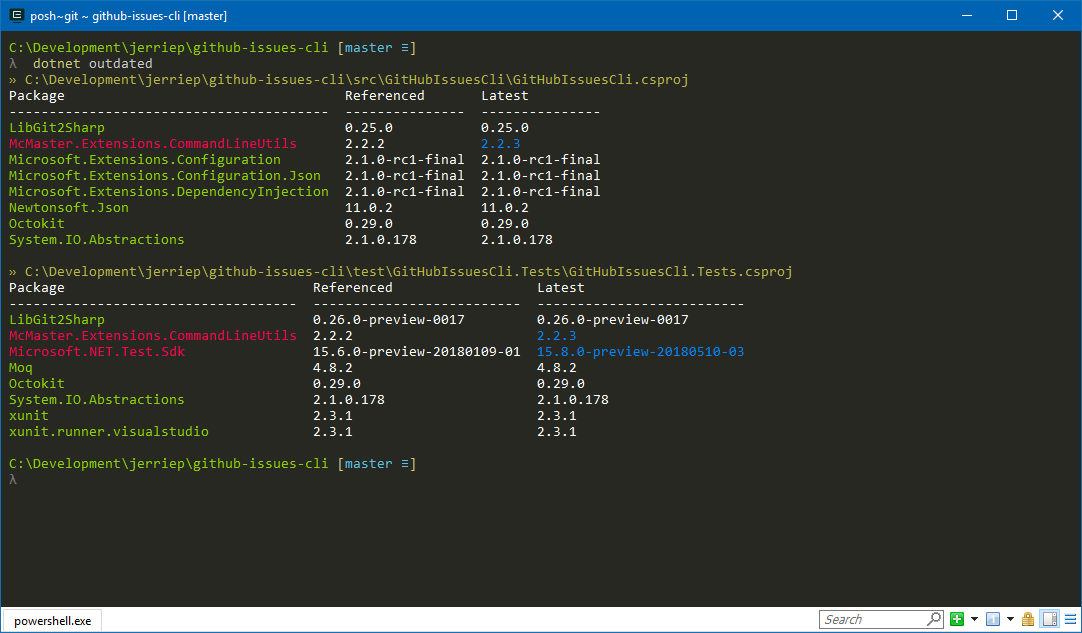
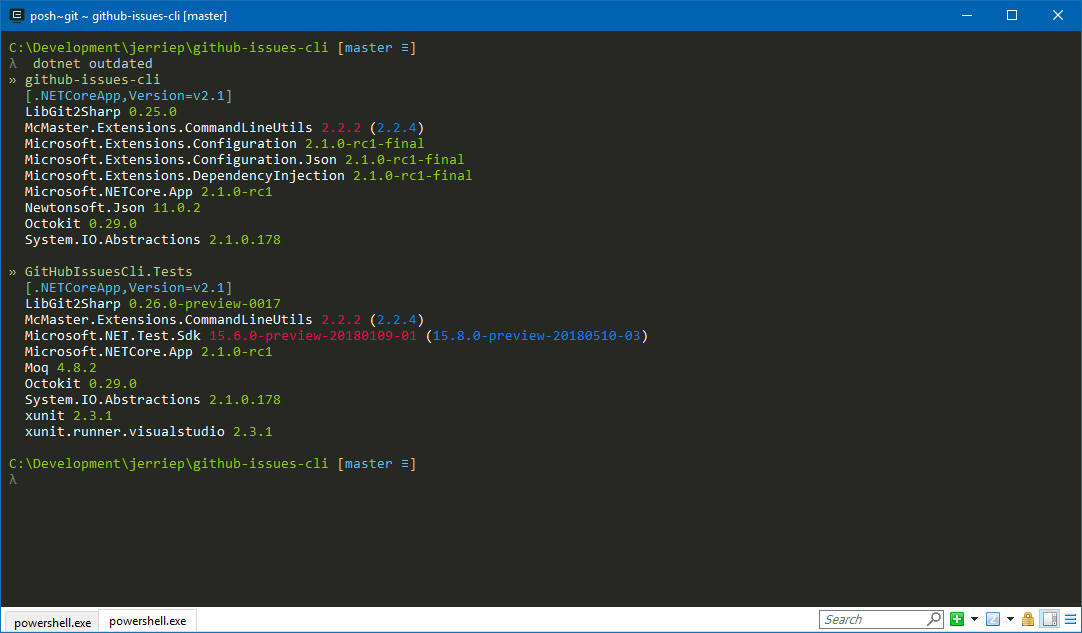
Prepare for v0.3.0

Changed region(s): [[0.0, 0.1201, 0.6405, 0.3902], [0.0, 0.4202, 0.732, 0.6904], [0.0, 0.9605, 0.183, 0.9905]]

diff --git a/README.md b/README.md
@@ -29,54 +29,39 @@ dotnet tool install --global dotnet-outdated
 Usage: dotnet outdated [arguments] [options]
 
 Arguments:
-  Path                            The path to a .sln or .csproj file, or to a directory containing a .NET Core solution/project. If none is specified, the current directory will be used.
+  Path                               The path to a .sln or .csproj file, or to a directory containing a .NET Core solution/project. If none is specified, the current directory will be used.
 
 Options:
-  --version                       Show version information
-  -?|-h|--help                    Show help information
-  -pr|--pre-release <PRERELEASE>  Specifies whether to look for pre-release versions of packages. Possible Values: Auto (default), Always or Never.
+  --version                          Show version information
+  -?|-h|--help                       Show help information
+  -pr|--pre-release <PRERELEASE>     Specifies whether to look for pre-release versions of packages. Possible values: Auto (default), Always or Never.
+  -vl|--version-lock <VERSION_LOCK>  Specifies whether the package should be locked to the current Major or Minor version. Possible values: None (default), Major or Minor.                                                                                               ```
 ```
 
 ![](screenshot.png)
 
-### Handling pre-release versions
+## Specifying the path
 
-**dotnet-outdated** allows you to specify whether to use pre-release versions of packages or not, but passing the `-pr|--pre-release` option.
+You can run **dotnet-outdated** without specifying the `Path` argument. In this case, it will look in the current directory for a solution (`.sln`) and if one is found it will analyze that solution. If no solution is found it will look for a project (`.csproj`) and if one is found it will analyze that project. If more than one solution or project is found in the current folder, **dotnet-outdated** will report an error.
+
+You can also pass a directory in the `Path` argument, in which case the same logic described above will be used, but in the directory specified.
+
+Lastly, you can specify the path to a solution (`.sln`) or project (`.csproj`) which **dotnet-outdated** must analyze.
+
+## Handling pre-release versions
+
+**dotnet-outdated** allows you to specify whether to use pre-release versions of packages or not by passing the `-pr|--pre-release` option.
 
 The default value of `Auto` will determine whether to use pre-release versions of a package based on whether the referenced version itself is a pre-release version. If the referenced version is a pre-release version, **dotnet-outdated** will include newer pre-release versions of the package. If the referenced version is not a pre-release version, **dotnet-outdated** will ignore pre-release versions.
 
 You can also tell **dotnet-outdated** to always include pre-release versions by passing the `Always` value for the option. Conversely, you can tell it to never include pre-release versions by passing the `Never` value for the option.
 
-## Examples
+## Locking to the current major or minor release
 
-### 1. Display outdated packages for all solutions or projects in the current directory
+**dotnet-outdated** allows you to lock the version to the current major or minor version by passing the `-vl|--version-lock` option.
 
-```text
-dotnet outdated
-```
+The default value of `None` will return the absolute latest package, regardless of whether it is a major or minor version upgrade.
 
-This will search the current directory for any solution files (`*.sln`) and display the outdated packages for the projects in those solutions. If no solution files are found, it will scan the directory for individual project files (`*.csproj`) and display the outdated packages for those projects.
+Passing a value of `Major` will only report on later packages in the current major version range. For example, if the current version for a package is `4.1.0`, **dotnet-outdated** will only report on later packages in the `4.x` version range.
 
-### 2. Display outdated packages for all solutions or projects in a specific directory
-
-```text
-dotnet outdated C:\Development\jerriep\github-issues-cli
-```
-
-This will search the directory `C:\Development\jerriep\github-issues-cli` for any solution files (`*.sln`) and display the outdated packages for the projects in those solutions. If no solution files are found, it will scan the directory for individual project files (`*.csproj`) and display the outdated packages for those projects.
-
-### 3. Display outdated packages for a specific solution
-
-```text
-dotnet outdated C:\Development\jerriep\github-issues-cli\GitHubIssues.sln
-```
-
-This will display the outdated packages for all the projects in the solution `C:\Development\jerriep\github-issues-cli\GitHubIssues.sln`.
-
-### 4. Display outdated packages for a specific project
-
-```text
-dotnet outdated C:\Development\jerriep\github-issues-cli\src\GitHubIssuesCli\GitHubIssuesCli.csproj
-```
-
-This will display the outdated packages for the project `C:\Development\jerriep\github-issues-cli\src\GitHubIssuesCli\GitHubIssuesCli.csproj`.
+Passing a value of `Minor` will only report on later packages in the current minor version range. For example, if the current version for a package is `4.1.0`, **dotnet-outdated** will only report on later packages in the `4.1.x` version range.

diff --git a/CHANGELOG.md b/CHANGELOG.md
@@ -1,5 +1,11 @@
 # Changelog
 
+## [v0.3.0]
+- Updated to use MSBuild to generate the dependency graph for the project ([#2](https://github.com/jerriep/dotnet-outdated/issues/2))
+- Scans all NuGet feeds configured for the project ([#7](https://github.com/jerriep/dotnet-outdated/issues/7))
+- Better reporting when running against incompatible project types ([#11](https://github.com/jerriep/dotnet-outdated/issues/11))
+- Allow you to lock to the current major or minor version ([#5](https://github.com/jerriep/dotnet-outdated/issues/5))
+
 ## [v0.2.0]
 - Display column headers ([#1](https://github.com/jerriep/dotnet-outdated/issues/1))
 - Allow specifying whether to include pre-release versions ([#4](https://github.com/jerriep/dotnet-outdated/issues/4))
@@ -9,5 +15,6 @@
 Initial release
  - A .NET Core global tool to display outdated NuGet packages in a project
 
+[v0.3.0]: https://github.com/jerriep/dotnet-outdated/tree/v0.3.0
 [v0.2.0]: https://github.com/jerriep/dotnet-outdated/tree/v0.2.0
 [v0.1.0]: https://github.com/jerriep/dotnet-outdated/tree/v0.1.0
